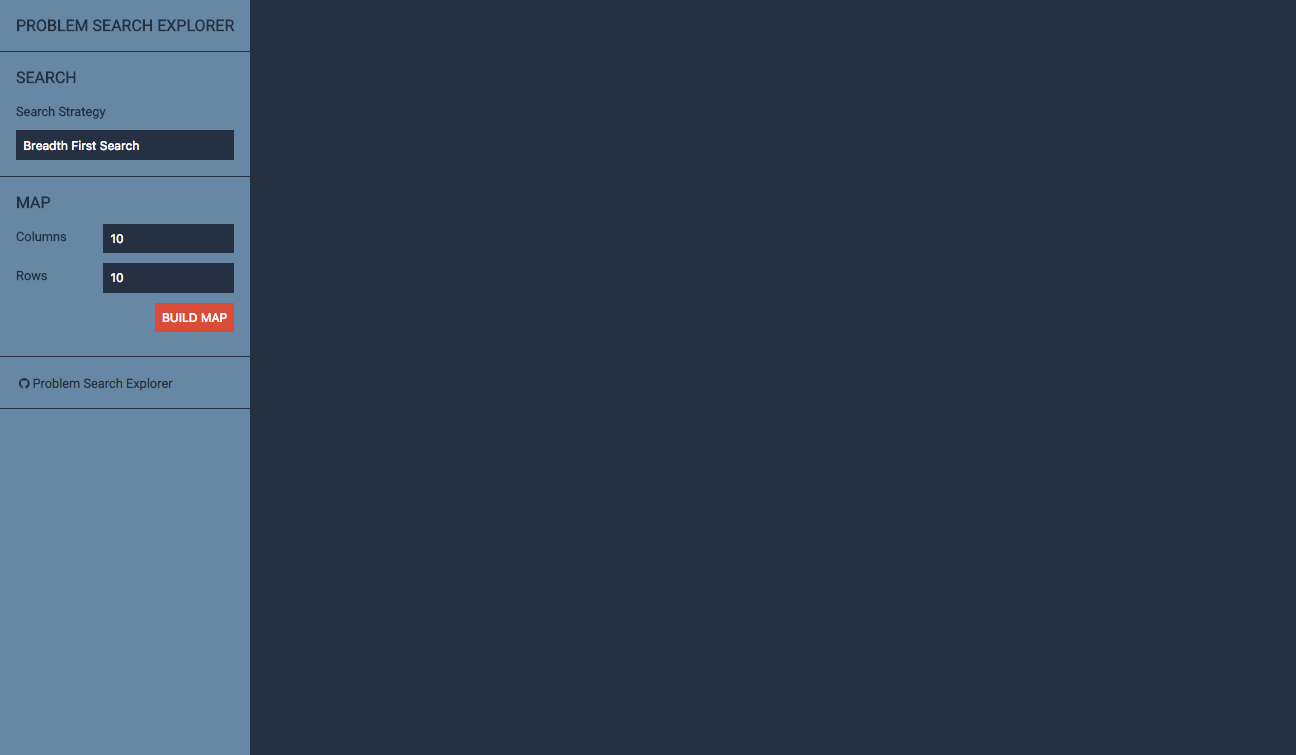
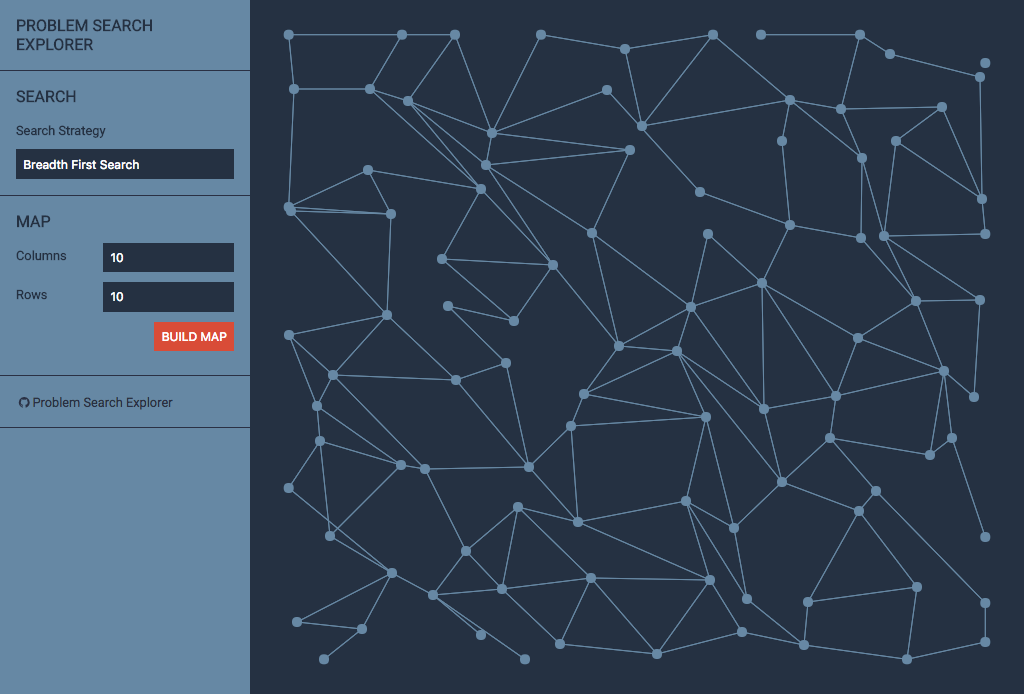
added problem-graph-visualisation

diff --git a/src/components/SearchMap.vue b/src/components/SearchMap.vue
@@ -5,17 +5,36 @@
 </template>
 
 <script>
+    let ProblemGraphVisualisation = require('./../../node_modules/problem-graph-visualisation/dist/problem-graph-visualisation.node.min')
+    let data = {
+        canvas: null
+    }
     export default {
         name: 'SearchMap',
         props: ['nodes'],
+        data: function () {
+            return data
+        },
         created: function () {
             this.$nextTick(function () {
-                console.log(document.getElementById('search-map'))
+                let map = document.getElementById('map')
+                this.canvas = new ProblemGraphVisualisation.Canvas({
+                    'element': document.getElementById('search-map'),
+                    'height': map.offsetHeight,
+                    'width': map.offsetWidth
+                })
             })
         },
         watch: {
             nodes: function (val) {
-                console.log(val)
+                let baseLevel = new ProblemGraphVisualisation.Level('baseLevel', {
+                    'nodes': val,
+                    'nodeColor': '#6189A5',
+                    'lineColor': '#6189A5',
+                    'textColor': '#e34f00'
+                })
+                this.canvas.addLevel(baseLevel)
+                this.canvas.update()
             }
         }
     }

diff --git a/src/components/Explorer.vue b/src/components/Explorer.vue
@@ -23,7 +23,9 @@
                 console.log(value.searchStrategy)
             },
             updateMap: function (value) {
-                let map = new ProblemMapGenerator.Map({'cols': parseInt(value.cols, 10), 'rows': parseInt(value.rows, 10), 'width': 10, 'height': 10})
+                let mapElement = document.getElementById('map')
+                console.log('mapElement', mapElement)
+                let map = new ProblemMapGenerator.Map({'cols': parseInt(value.cols, 10), 'rows': parseInt(value.rows, 10), 'width': mapElement.offsetWidth, 'height': mapElement.offsetHeight})
                 map.injectRandom(ProblemMapGenerator.Random)
                 this.nodes = map.getNodes()
             }

diff --git a/.eslintrc.js b/.eslintrc.js
@@ -16,7 +16,8 @@ module.exports = {
         'html'
     ],
     globals: {
-        'ProblemMapGenerator': true
+        'ProblemMapGenerator': true,
+        'ProblemGraphVisualisation': true
     },
     // add your custom rules here
     'rules': {
